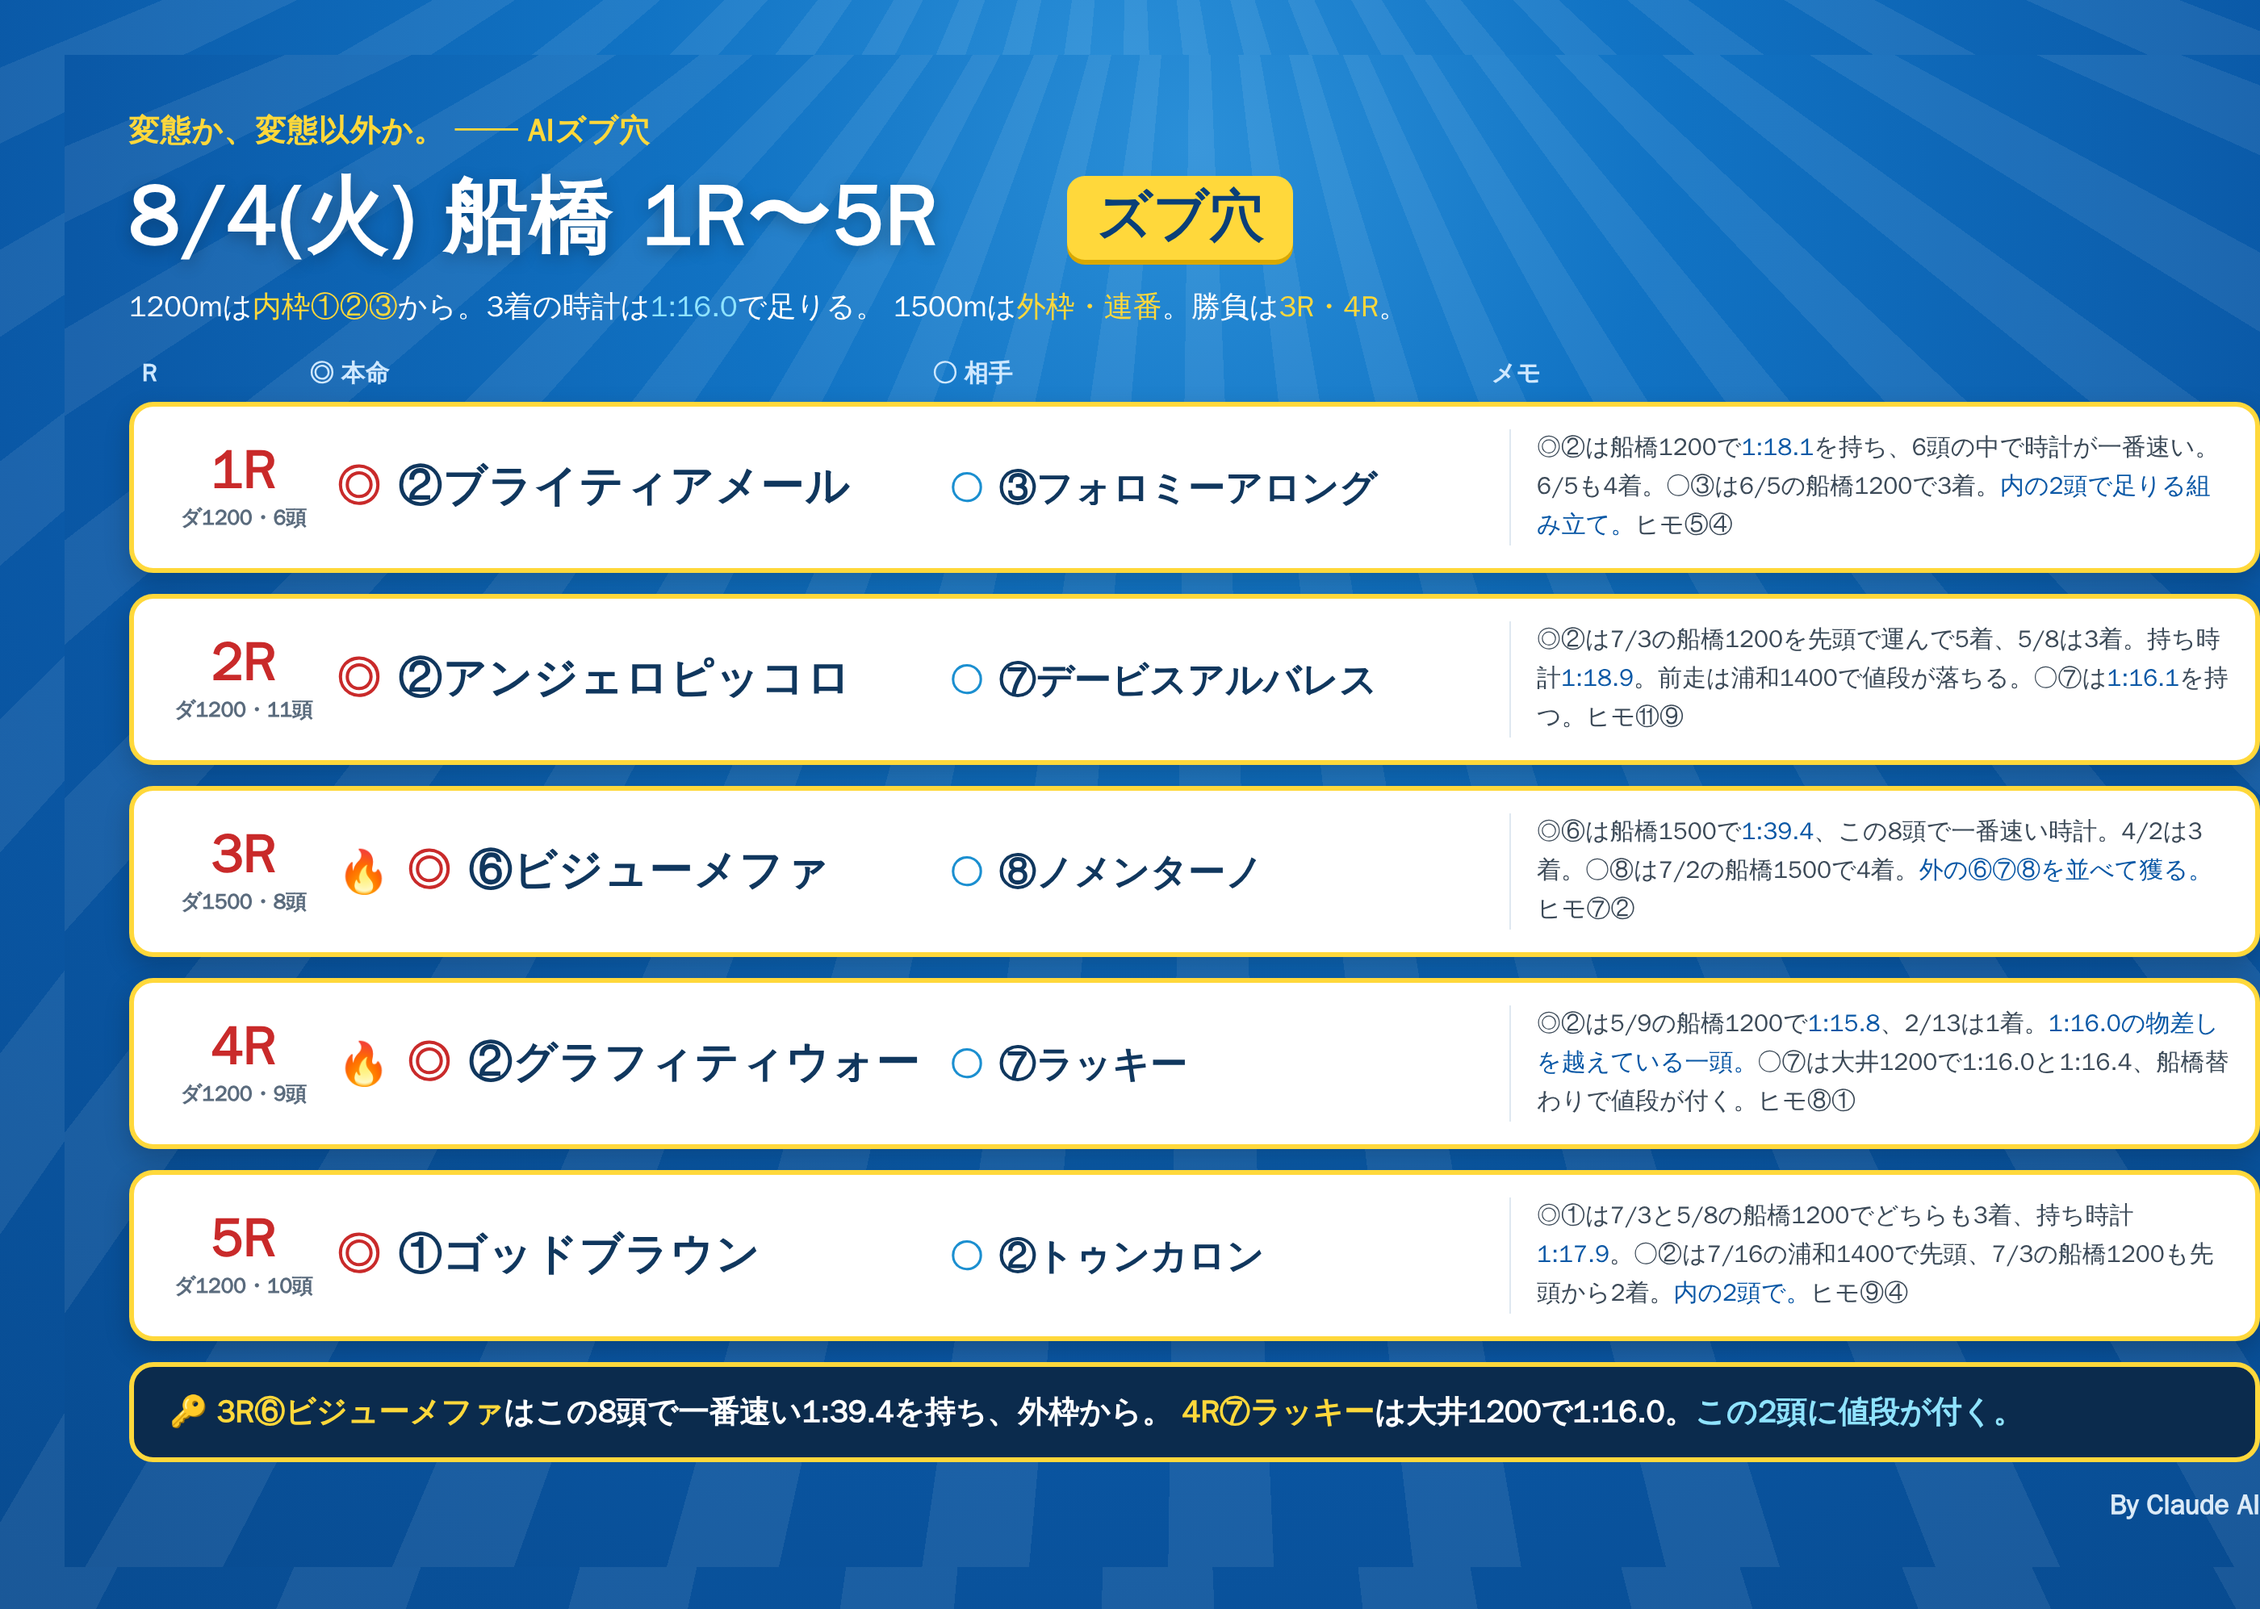
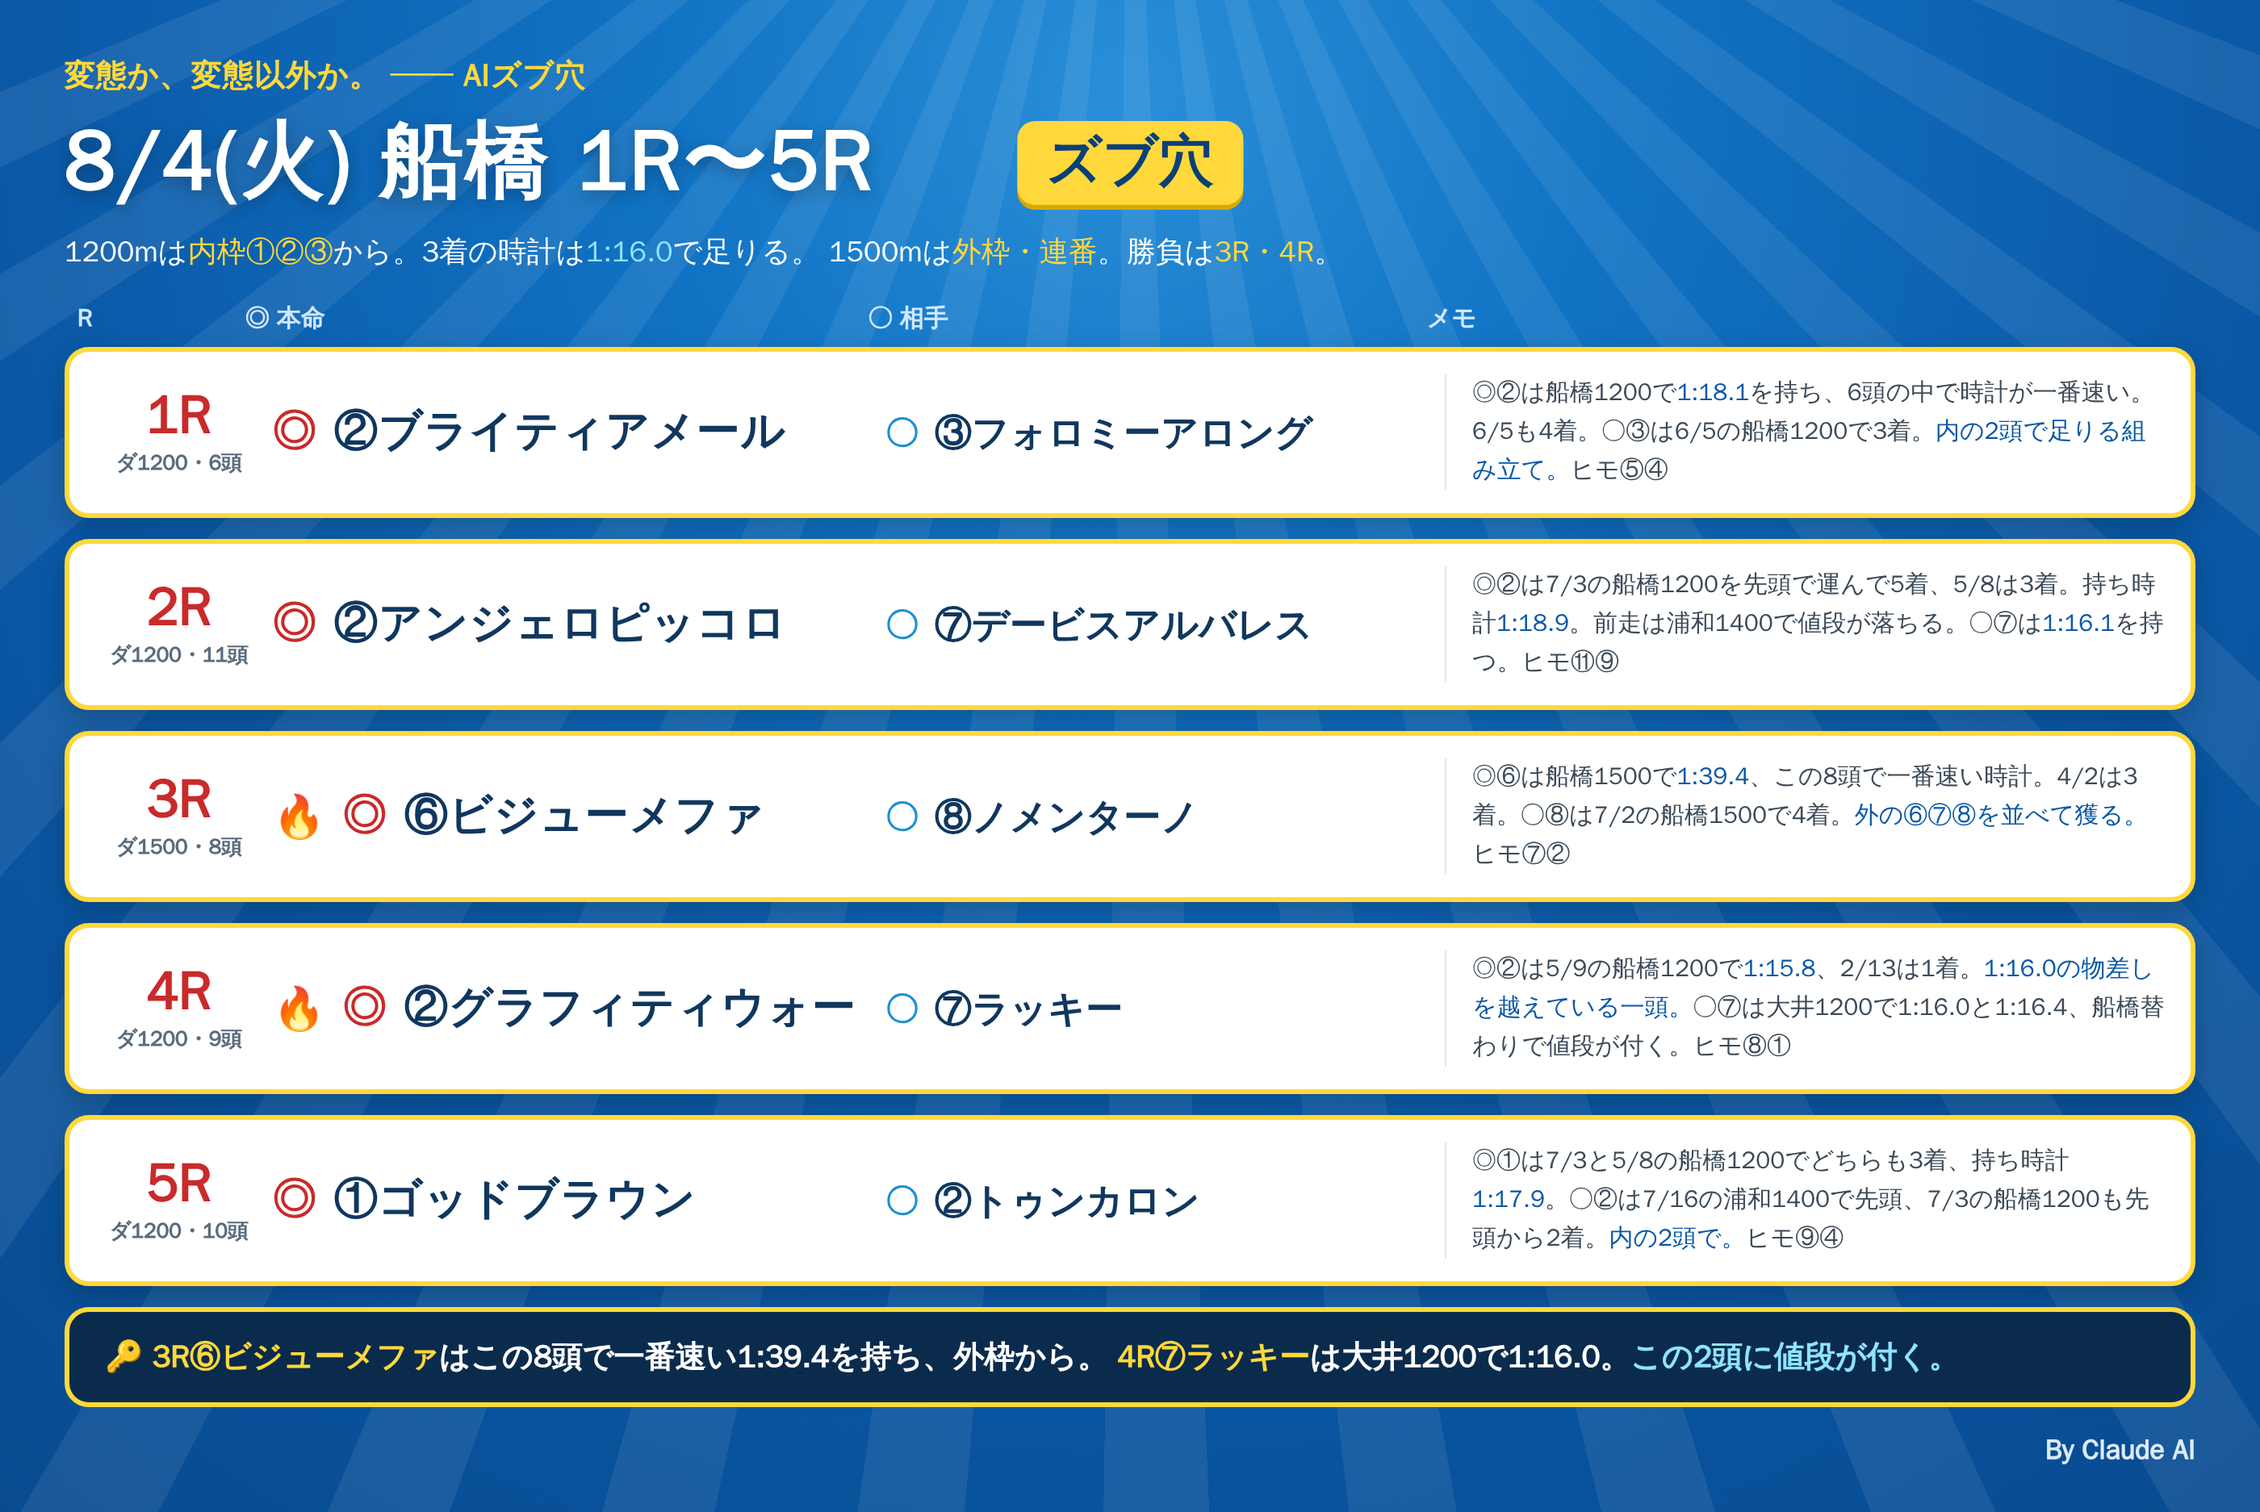
notes: drop duplicated card wrapper that offset the 8/4 card to the right
Claude-Session: https://claude.ai/code/session_01RoHscZkr96FNaxQWvUqgEw

Changed region(s): [[0.0311, 0.0309, 1.0, 0.9904], [0.4039, 0.4023, 0.5904, 0.4333], [0.4039, 0.5261, 0.5593, 0.5571]]

diff --git a/notes/live/2026-08-04/funabashi_1_5.html b/notes/live/2026-08-04/funabashi_1_5.html
@@ -9,7 +9,8 @@
   .inner { position:relative; }
 
   .kicker { color:#ffd83b; font-size:19px; font-weight:900; letter-spacing:.5px; }
-  .titleline { display:flex; align-items:center; gap:80px; margin-top:6px; }
+  .titleline { position:relative; display:flex; align-items:center; margin-top:6px; }
+  .titleline .bdg { position:absolute; left:50%; transform:translateX(-50%); }
   .title { color:#fff; font-size:52px; font-weight:900; letter-spacing:1px; text-shadow:0 3px 10px rgba(0,0,0,.28); }
   .bdg { background:#ffd83b; color:#0a3f78; font-size:34px; font-weight:900; padding:3px 18px; border-radius:11px; box-shadow:0 3px 0 #d9a800; }
   .bdg2 { background:#14456f; color:#eaf6ff; font-size:23px; font-weight:900; padding:8px 16px; border-radius:10px; }
@@ -42,7 +43,6 @@
   .foot .y{color:#ffd83b;} .foot .c{color:#8fe3ff;}
   .sig { text-align:right; color:#dbeaf7; font-size:17px; font-weight:800; margin-top:16px; }
 </style></head><body>
-<div class="card"><div class="rays"></div><div class="inner">
 <div class="card"><div class="rays"></div><div class="inner">
   <div class="kicker">変態か、変態以外か。 ── AIズブ穴</div>
   <div class="titleline">
